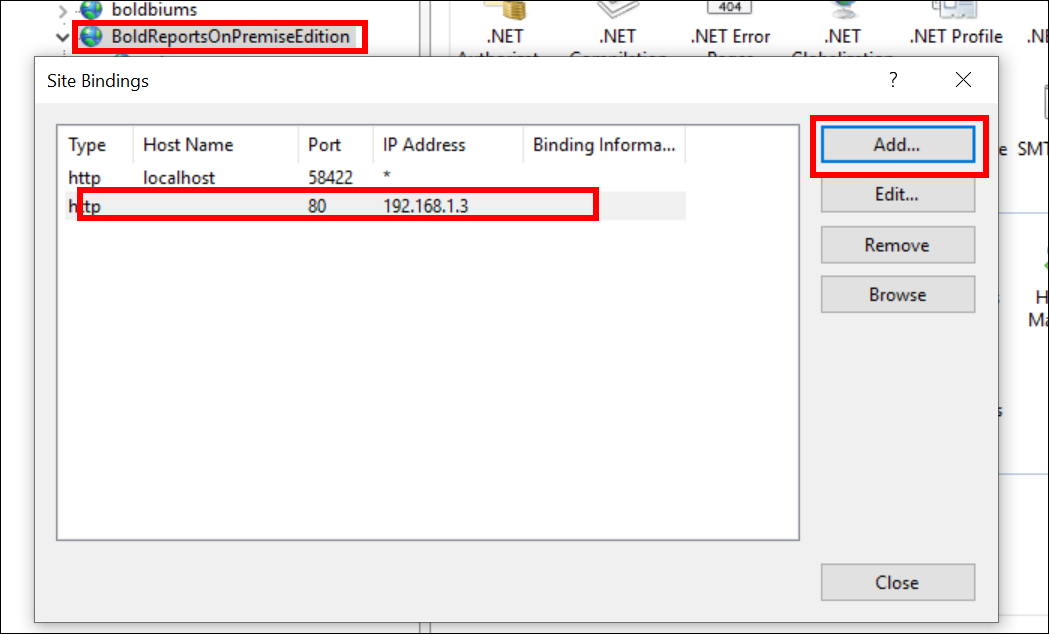
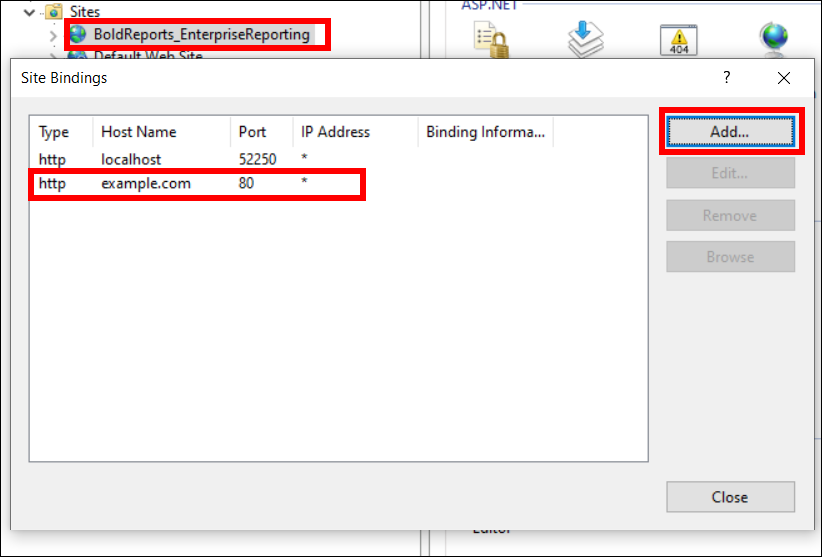
Merge branch 'UMP-17090-custom-domain-doc' into 'hotfix/boldreports_v3.2'
documentation(UMP-17090): custom domain documentation

See merge request bold-reports/enterprise-docs!183

(cherry picked from commit aafc14d4e32f84d8efbc7f4b5ea70858c7ee0015)

4be4a826 documentation(UMP-17090): changed content and images for custom domain documentation
61450e47 documentation(UMP-17090): Add images and deleted unwanted images for custom domain.
4d00d725 documentation(UMP-17090): Remove unwanted spaces
6e098ae1 documentation(UMP-17090): changes for custom domain documentation to new feature
24064cf9 documentation(UMP-17090): changed the content and images for new features of custom domain.
26884fdc documentation(UMP-17090): changed the content and add the new images
e92c8ea3 documentation(UMP-17090): changes for custom domain documentation.
7330db3c Merge branch 'hotfix/boldreports_v3.2' of…
e7dbeddc documentation(17090): changes for mapping the custom domain
8bc73ab1 documentation(UMP-17090): Changed spelling error in custom domain documentation.
1929adfd Merge branch 'hotfix/boldreports_v3.2' of…
0425678d documentation(UMP-17090): correcting the case
80227189 Merge branch 'hotfix/boldreports_v3.2' of…
f68bce13 Merge branch 'UMP-17090-custom-domain-doc' of…
6523769c documentation(UMP-17090): chanded the content to before version of build
46d6a0f1 documentation(UMP-17090): changed the content to below version.
ac066faa documentation(UMP-17090): deleted unwanted space and changed spelling error
[…]

Changed region(s): [[0.0, 0.0, 1.0, 1.0]]

diff --git a/docs/administrator-guide/installation/windows-installer.md b/docs/administrator-guide/installation/windows-installer.md
@@ -82,30 +82,19 @@ Click on `No`, it will not have common login for `BoldBI` and `BoldReportsEnterp
 Please follow below steps to change the application binding information
 
 1. Add new binding to Bold Reports Enterprise Reporting edition on IIS as shown in the image below.
- **`Example: 192.168.1.3`**
+ **`Example: example.com`**
 ![IIS Binding](/static/assets/on-premise/images/getting-started/add-binding.png)  
     >Don’t remove existing bindings.
-
-2. Update the new binding values in below configuration files in deployed location.
-I>By default, Bold Reports will be deployed on `C:\Bold Reports`
-   * Update the **`InternalAppReportUrl`** value in config file in below location  
-**`{Deployed Location}`**\IDP\App_Data\Configuration\config.xml  
-![IDP Config File](/static/assets/on-premise/images/getting-started/idp-config.png)
-   * Update the **`InternalAppDataServiceUrl`**, and **`InternalAppIdpUrl`** values in the config file in below location  
-**`{Deployed Location}`**\Report Server\App_Data\Configuration\Config.xml  
-![RS Config File](/static/assets/on-premise/images/getting-started/rs-config.png)
-3. Restart the site in IIS and browse the site with old binding URL.
-4. Now navigate to the site settings page of the UMS application using below old binding and update the new binding information as shown in image below.
+2. Go to site settings page of the UMS application using below old binding and update the new binding information as shown in image below.
 **`http://localhost:{port-no}/ums/administration`**  
 ![IDP Base URL](/static/assets/on-premise/images/getting-started/idp-base-url.png)
-5. Now navigate to the site setting of your report server application using below old binding and update the new binding information as shown in image below.  
-**`http://localhost:{port-no}/reporting/en-us/site/site1/administration`**  
-![RS Base URL](/static/assets/on-premise/images/getting-started/rs-base-url.png)
-
-6. Now Bold Reports site can be browsed using the new binding.
-
+3. Then navigate to the site listing page of UMS application and click `Edit` on the deployed site as shown in image below.
+**`http://localhost:{port-no}/ums/sites`**  
+![RS Base URL](/static/assets/on-premise/images/getting-started/ums-url-edit.png)
+4. Update the new binding information as shown in image below.![RS Base URL](/static/assets/on-premise/images/getting-started/ums-base-url.png)
+5. Now, Bold Reports site can be browsed using the new binding.
+6. Repeat the step 3 and 4 to change custom domain for deployed sites.
 > * To Configure the Bold Reports Enterprise Reporting Edition by using newly added bindings in IIS, refer this [link](../../how-to/map-a-domain-name-to-bold-reports-site-before-startup/)
-> * Bold Reports Enterprise Reporting Edition configuration completed by using newly added bindings in IIS but unable to launch `BoldReportsEnterprise Reporting` site, refer this [link](../../how-to/resolve-unavailable-error-when-site-fails-incase-of-domain-name-change/) to solve the problem and configure BoldReports site.
 
 ## See Also
 

diff --git a/docs/administrator-guide/how-to/map-a-domain-name-to-bold-reports-site-before-startup.md b/docs/administrator-guide/how-to/map-a-domain-name-to-bold-reports-site-before-startup.md
@@ -12,12 +12,9 @@ The following steps to change the Bold Reports URL:
 
 1. Go to the deployed location and update the new binding values in following configuration files.
 
-   >By default, Bold Reports will be deployed on C:\Bold Reports.
+   >By default, Bold Reports will be deployed on C:\BoldServices.
 
-   * Update the **`InternalAppReportUrl`** value in config file from the following location.
-   **`{Deployed Location}`**\IDP\UMS\Configuration\boldreports\Config.xml
-   ![IDP Config File](/static/assets/on-premise/images/getting-started/idp-config.png)
-   * Update the **`InternalAppDataServiceUrl`**, and **`InternalAppIdpUrl`** values in the config file from the following location.
-   **`{Deployed Location}`**\Report Server\Configuration\Config.xml
-   ![RS Config File](/static/assets/on-premise/images/getting-started/rs-config.png)
+   * Update the **`InternalAppUrls`** value in config file in below location  
+**`{Deployed Location}`**\app_data\configuration\config.xml  
+![IDP Config File](/static/assets/on-premise/images/getting-started/boldservice-config.png)
 2. Restart the site in IIS and browse the site. Configure the Bold Reports On-Premise Edition startup by referring this [link](../../application-startup/).

diff --git a/docs/administrator-guide/how-to/index.md b/docs/administrator-guide/how-to/index.md
@@ -12,7 +12,7 @@ This section helps to get the answer for the frequently asked how to queries in 
 
 * [How to map a domain name for Bold Report On-Premise Edition before startup?](./../how-to/map-a-domain-name-to-bold-reports-site-before-startup/)
 
-* [How to resolve unavailable error with Bold Reports On-Premises Edition when it is occurred in reason of domain name change?](./../how-to/resolve-unavailable-error-when-site-fails-incase-of-domain-name-change/)
+* [How to resolve unavailable error with Bold Reports On-Premises Edition when it is occurred in reason of domain name change version up to 2.x?](./../how-to/resolve-unavailable-error-when-site-fails-incase-of-domain-name-change/)
 
 * [How to setup the staging and production environment for Bold Reports On-Premise Edition?](./../how-to/setup-the-development-staging-and-production-environment-for-bold-reports-on-premise-edition/)
 

diff --git a/docs/administrator-guide/how-to/resolve-unavailable-error-when-site-fails-incase-of-domain-name-change.md b/docs/administrator-guide/how-to/resolve-unavailable-error-when-site-fails-incase-of-domain-name-change.md
@@ -4,7 +4,7 @@ description: This documentation explains how to resolve unavailable error when s
 keywords: report-platform, reporting
 ---
 
-# How to resolve unavailable error when deploying on Bold Reports site
+# How to resolve unavailable error when deploying on Bold Reports site version up to 2.x
 
 If Bold Reports Enterprise Reporting site fails to launch, you have to change the Bold Reports URL in `Config.xml` file of Bold Reports Enterprise Reporting.
 

diff --git a/docs/administrator-guide/how-to/upgrade-the-bold-reports-on-premise-edition-new-version-on-production-server.md b/docs/administrator-guide/how-to/upgrade-the-bold-reports-on-premise-edition-new-version-on-production-server.md
@@ -6,7 +6,7 @@ platform: report-platform
 documentation: ug
 ---
 
-# How to upgrade Bold Reports On-Premise Edition new version on production server
+# How to upgrade Bold Reports On-Premise Edition version up to 2.x on production server
 
 This section explains how to upgrade Bold Reports On-Premise Edition in staging and to production environment.
 
